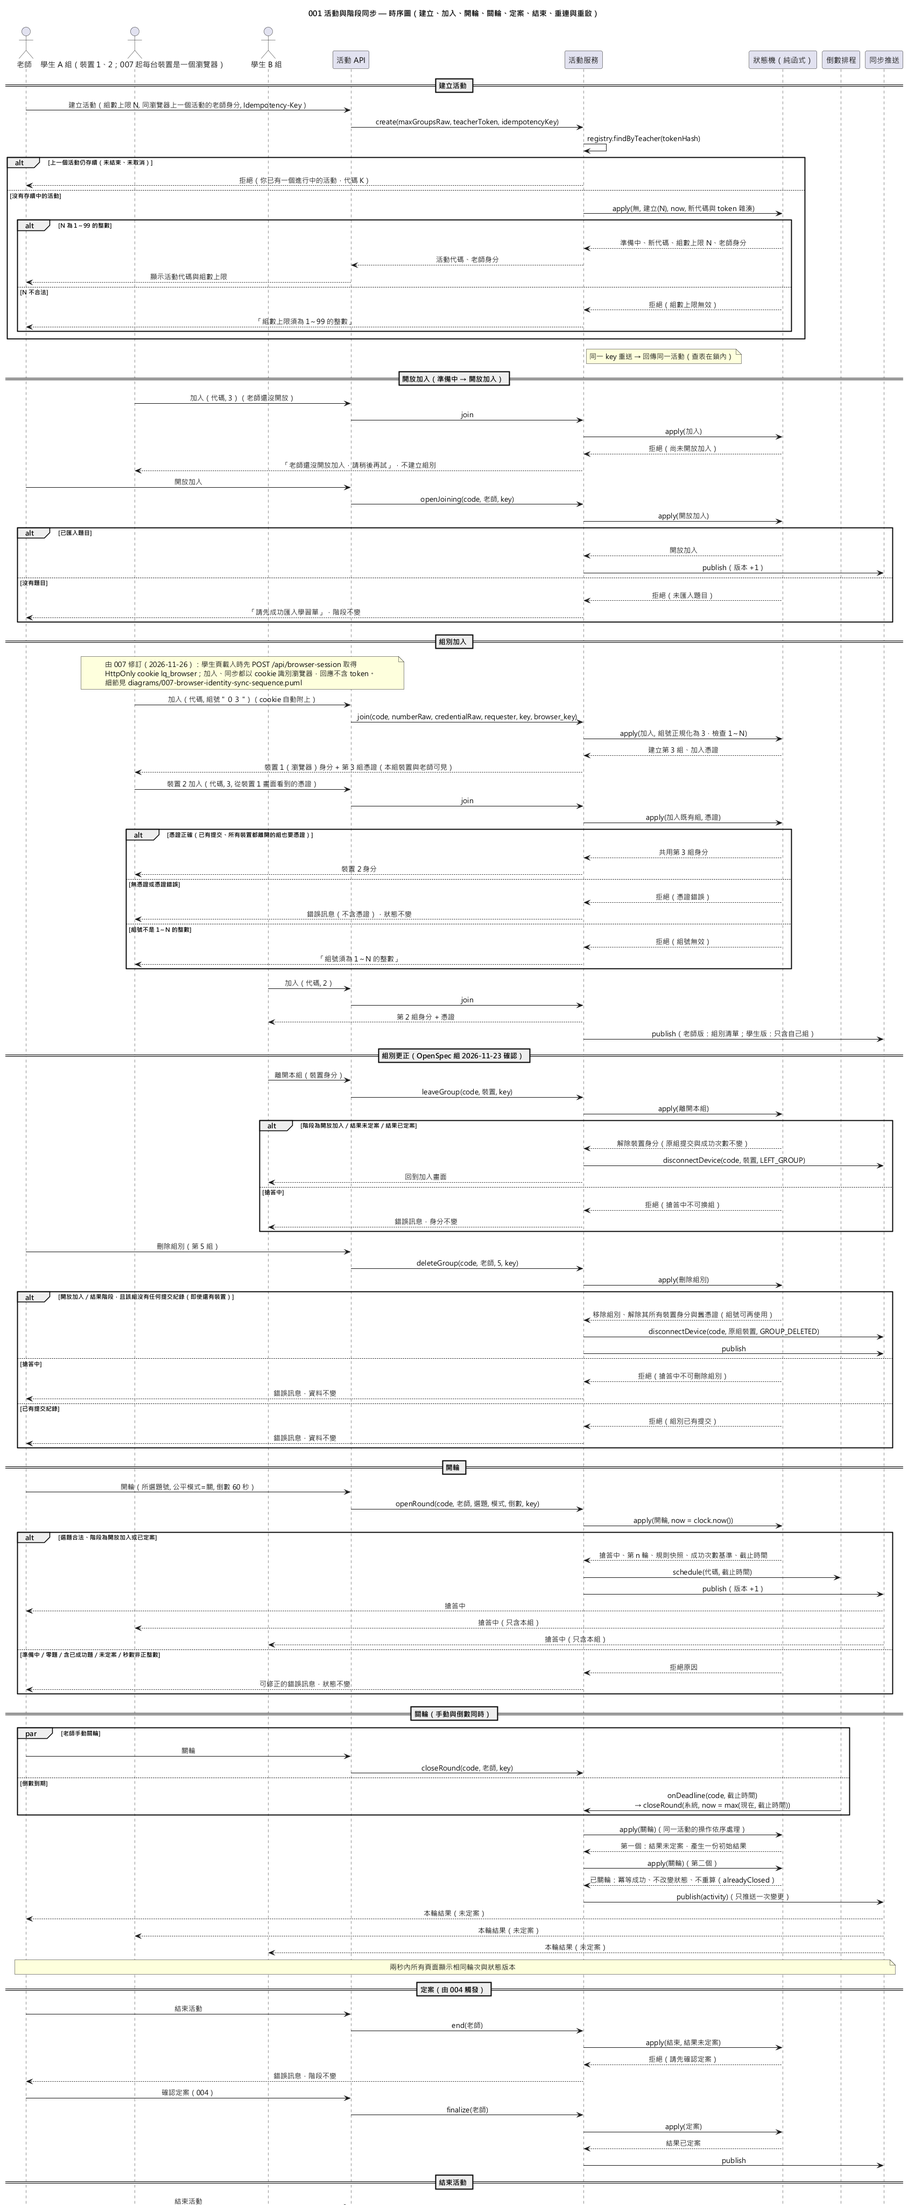
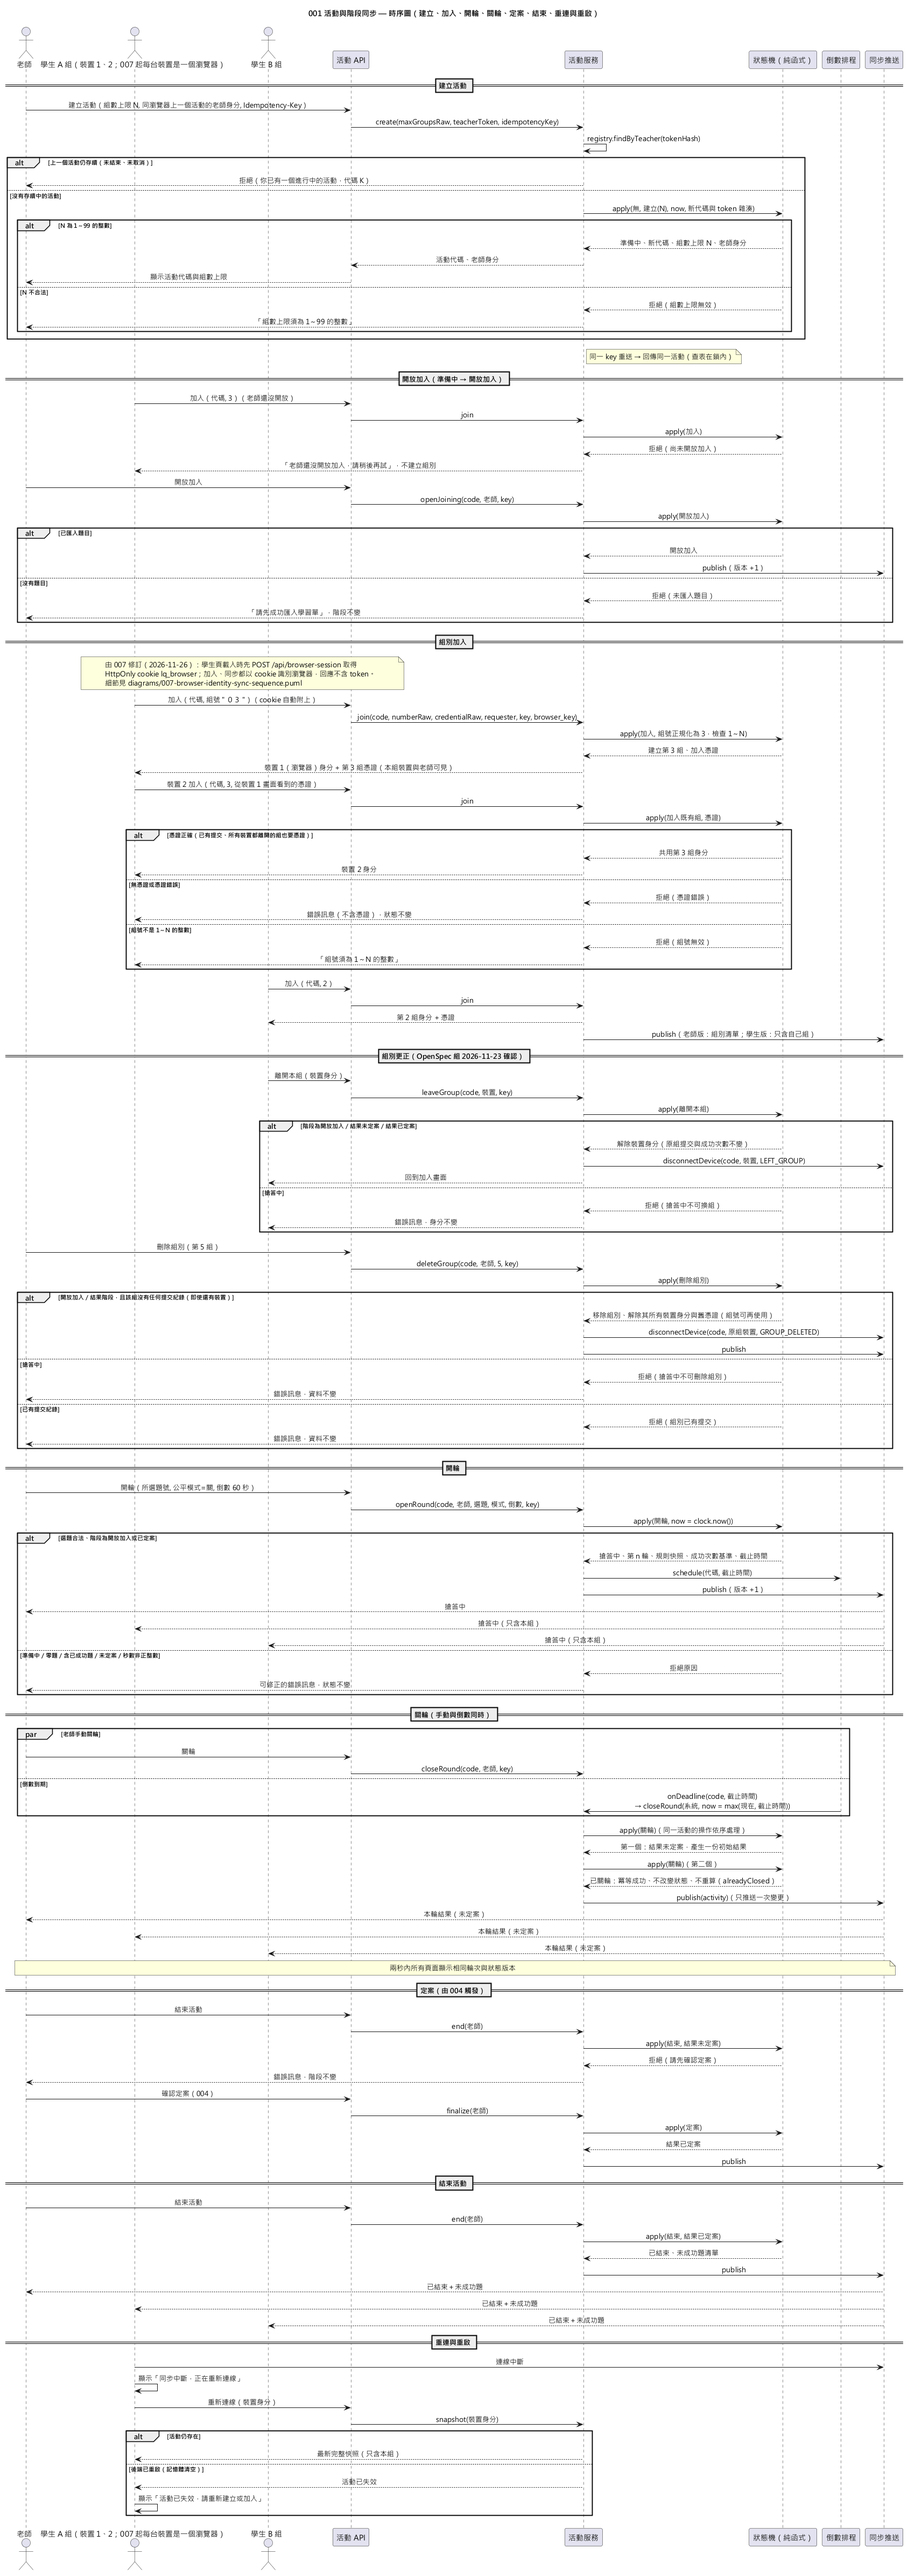
fix: 001 時序圖以較大尺寸上限重新轉出，避免結尾被截斷 (#36)

diff --git a/specs/007-browser-identity-sync/verification.md b/specs/007-browser-identity-sync/verification.md
@@ -42,3 +42,9 @@
 
 - tasks 只列出 001、003、004、006，實際以 `grep "分頁"` 檢查時發現 `specs/005-result-export/quickstart.md` 的人工驗證也寫「學生至少兩組各一個分頁」，一併改為「各用一個獨立的瀏覽器」。
 - 001 的 quickstart 只改前置條件的定義（分頁 A1、A2、B、C 各自是獨立瀏覽器），各步驟沿用原本的代號，不逐列改寫。
+
+### P-07：001 時序圖 PNG 被 PlantUML 預設尺寸上限截斷（2026-11-26，T040）
+
+- 以預設設定重新轉出時，圖高被截在 4096 px，結尾的「結束活動」「重連與重啟」段落消失（檔案從 486 KB 變成 224 KB 才發現）。
+- 改以 `java -DPLANTUML_LIMIT_SIZE=8192 -jar plantuml.jar` 重新轉出，高度 4783 px，開啟確認內容完整。之後轉出長的時序圖都要加這個參數。
+- 同時檢查所有 PNG：另有 `diagrams/005-result-export-class.png` 寬度剛好 4096 px，可能也被截斷；它不是 007 改的，留給 005 負責人確認。
